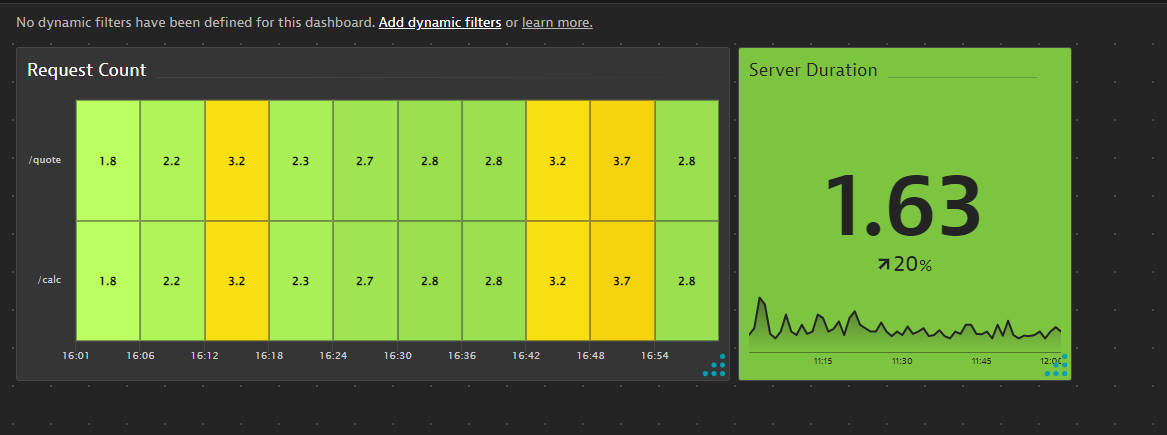
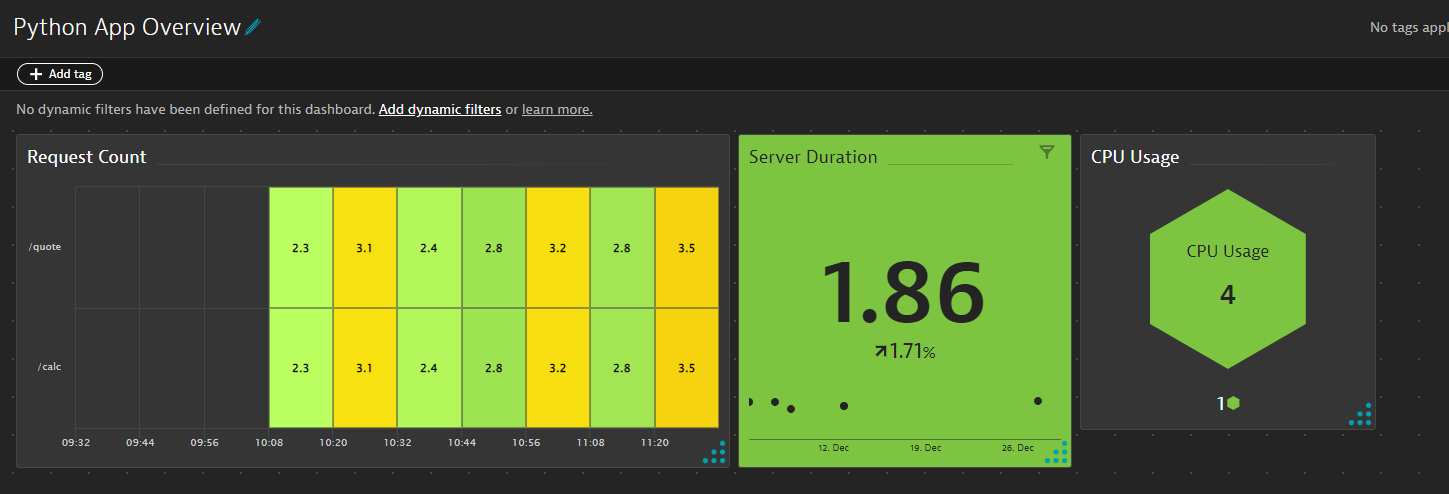
update

diff --git a/automate-integrate-opentelemetry/content/03_python_metrics/01_metric_creation/index.md b/automate-integrate-opentelemetry/content/03_python_metrics/01_metric_creation/index.md
@@ -1,8 +1,6 @@
 ## Creating python metrics
 
-In addition to traces, Open Telemetry allows for metrics collection
-
-Goal: collect a synchronous response time metric
+In this section we go through OpenTelemetry Metric setup and create a new metric. 
 
 Reference: Dynatrace documentation
 - [OpenTelemetry metric concepts](https://www.dynatrace.com/support/help/shortlink/opentelemetry-metric-concepts)
@@ -13,7 +11,10 @@ Reference: Dynatrace documentation
 1. Recording a measurement (sync & async)
 1. Finding your metric in Dynatrace
 
+---
+
 ### 1. Meter Provider Configuration 
+#### 📌 Follow along
 
 Navigate to the following file:
 
@@ -84,7 +85,7 @@ Finally, we create an empty dictonary on line `26` which will end up holding our
 ```
 ---
 ### 2. Meter & Instrument Creation 
-
+#### 📌 Follow along
 The Meter can create the following Instrument types:
 
 ![Meter Instrument Types](../../../assets/images/03-01-instrument-types.png)
@@ -195,8 +196,8 @@ Copy the `self.create_counter_instrument` on line `35` as a starting point and m
 
 ---
 
-### 4. Passing measurements to Instruments 
-
+### 3. Passing measurements to Instruments 
+#### 📌 Follow along
 Depending on the instrument type there are different functions used for populating measurements:
 
 ![Instrument Function/Callback](../../../assets/images/03-01-function_callback_table.png)
@@ -233,7 +234,6 @@ def calc():
     process(random.randint(0, 25))
     return make_response({}, 200)
 ```
---- 
 
 ### 📌 Task
 
@@ -274,8 +274,6 @@ mvn spring-boot:run
   $ sudo kill -9 `sudo lsof -t -i:8080`
   ```
 </details>
-
----
 
 ### 📌 Bonus Task: Add metrics in Java
 
@@ -330,7 +328,7 @@ Find the metric in the data explorer and check if you're new attribute values ar
 ---
 
 ### 5. Finding the measurments in Dynatrace
-
+#### 📌 Follow along
 Navigate in your Dynatrace client to the Metrics Explorer and type in `perform.opentelemetry` to see the metrics populating in Dynatrace:
 
 ![Meter Instrument Types](../../../assets/images/03-02-metric_browser.png)

diff --git a/automate-integrate-opentelemetry/content/03_python_metrics/03_topology/index.md b/automate-integrate-opentelemetry/content/03_python_metrics/03_topology/index.md
@@ -1,12 +1,15 @@
-## Metrics - leverage Unified Analysis Screens
+## Connecting metrics to Topology
 
-Task: create topology rule
+Here we explore how to connect our metrics to the Dynatrace Topology. 
 
-Observe: all metrics in the new screen
+1. Create a rule to expand the Dyantrace topology
+1. Find metrics in the Unified Analysis Screen of our python service
 
-Understand: Service, Trace, Metrics in context of topology
+---
 
-### Linking metrics to the Dynatrace Topology
+## Linking metrics to the Dynatrace Topology
+
+#### 📌 Follow along
 
 #### 1.  Go to `Settings >  Toplogy model > Generic types > Add type definition` and start by completeing the following feilds and click on `Add extraction rule`:
 
@@ -46,7 +49,11 @@ Understand: Service, Trace, Metrics in context of topology
 
    ![Topology 4](../../../assets/images/03-03-topology_4.png)
 
-### Unified Alysis Screen
+---
+
+## Unified Analysis Screen
+
+#### 📌 Follow along
 
 Now that we have our topology we can navigate to the Service screen for our python service to see the result
 

diff --git a/automate-integrate-opentelemetry/content/03_python_metrics/04_alert_creation/index.md b/automate-integrate-opentelemetry/content/03_python_metrics/04_alert_creation/index.md
@@ -1,14 +1,15 @@
 ## Creating alerts in Dynatrace
 
-Task: alerting (auto-adaptive / seasonal baseline)
+Here we look at ad-hock anlysis of metrics connected to our python service and creating alerts on our metrics. 
 
-Observe: measurements on demand
+1. Trigger Davis Exploritory Analysis
+1. Create alerts using auto-adaptive and seasonal baselines 
 
-Understand: dynatrace dimensions & metrics
+---
 
 ## Davis Exploritory Analysis
 
-### 📌 Follow along
+#### 📌 Follow along
 
 Quickly identify observability signals relevant to any signal behavior (for example, a spike on a chart) that you want to investigate. Now that our metrics are connected to the topology they can be included in this anlysis. 
 
@@ -24,7 +25,7 @@ Some things to note:
 
 ## Metric Events (Alerting)
 
-### 📌 Follow along
+#### 📌 Follow along
 
 Lets create an Auto Adaptive baseline metric event for the `perform.opentelemetry.hot.process_duration` metric. 
 

diff --git a/automate-integrate-opentelemetry/content/03_python_metrics/02_metric_browser/index.md b/automate-integrate-opentelemetry/content/03_python_metrics/02_metric_browser/index.md
@@ -1,6 +1,12 @@
 ## Metric Browser & Dashboards
 
-### 📌 Follow along
+In this section we create a dashboard using our OpenTelemetry metrics. 
+
+1. Explore metrics in Dynatrace
+1. Create a heatmap and pin to a dashboard
+1. Create a single value tile and pin to dashboard
+
+#### 📌 Follow along
 
 Navigate to the metric brower and search for the text `perform.opentelemetry`. Expand `perform.opentelemetry.hot.requests_count` and click `Create chart` to open the data explorer
 
